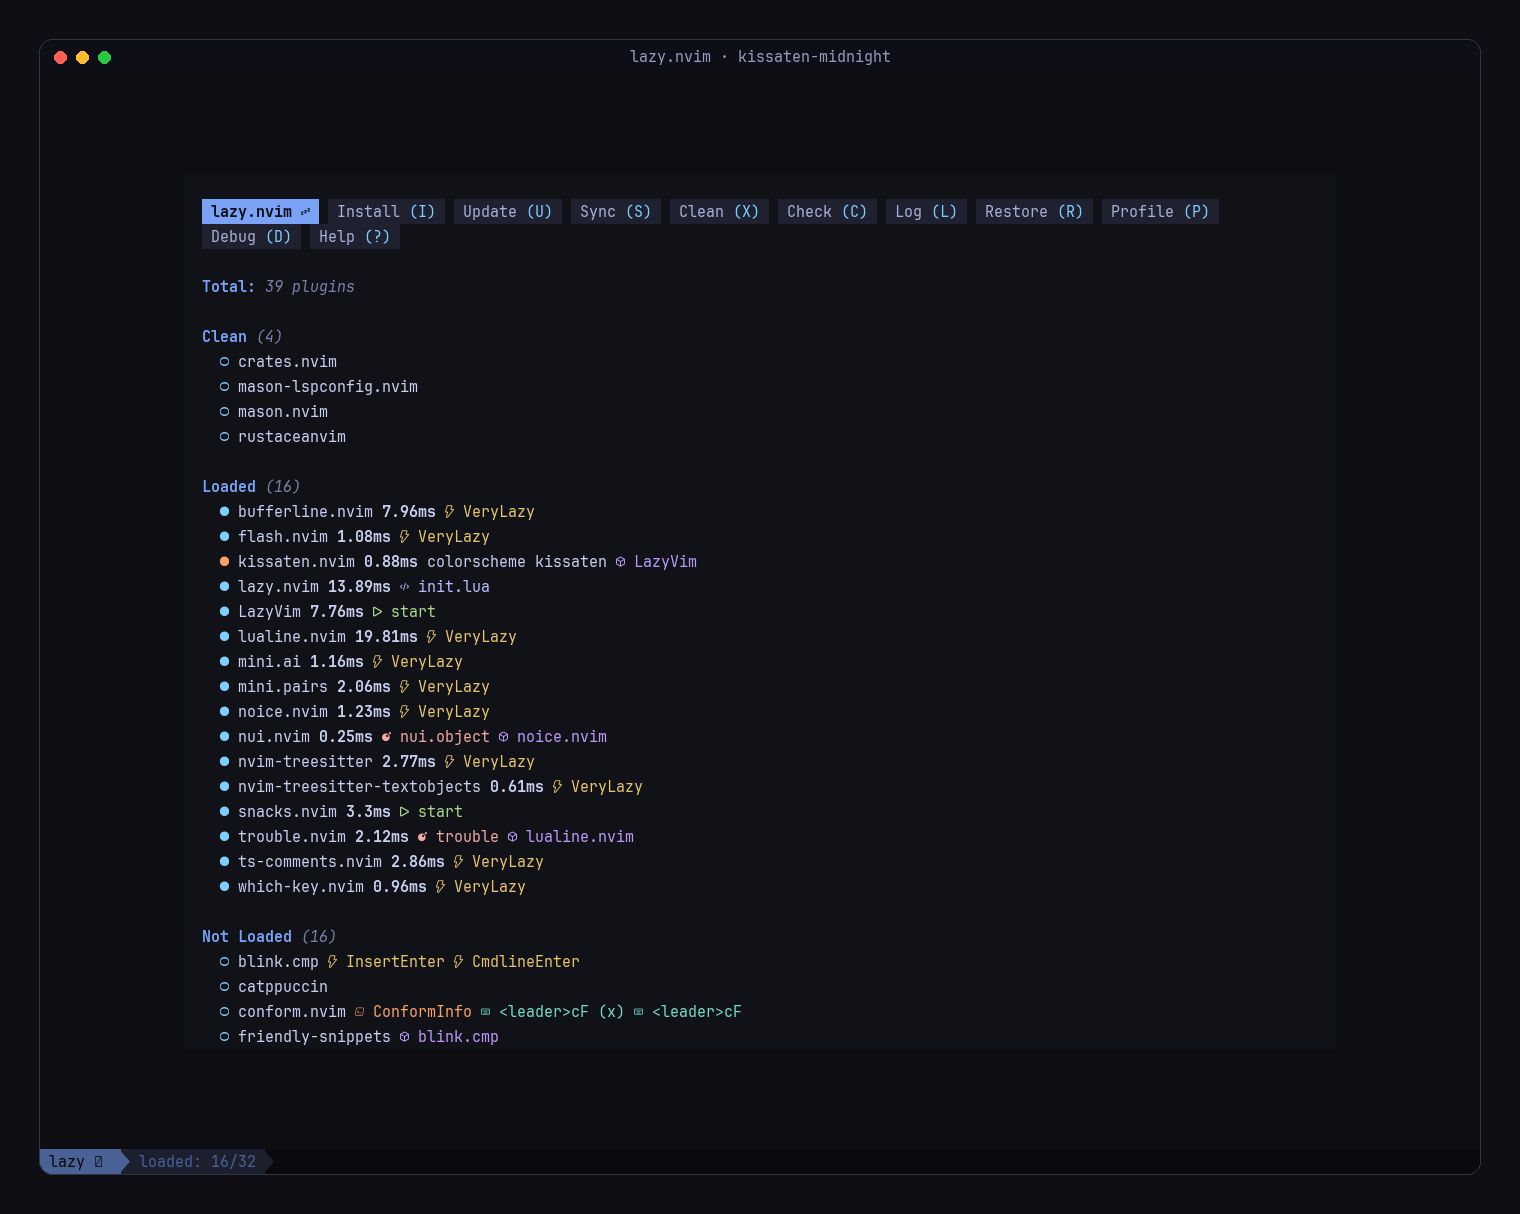
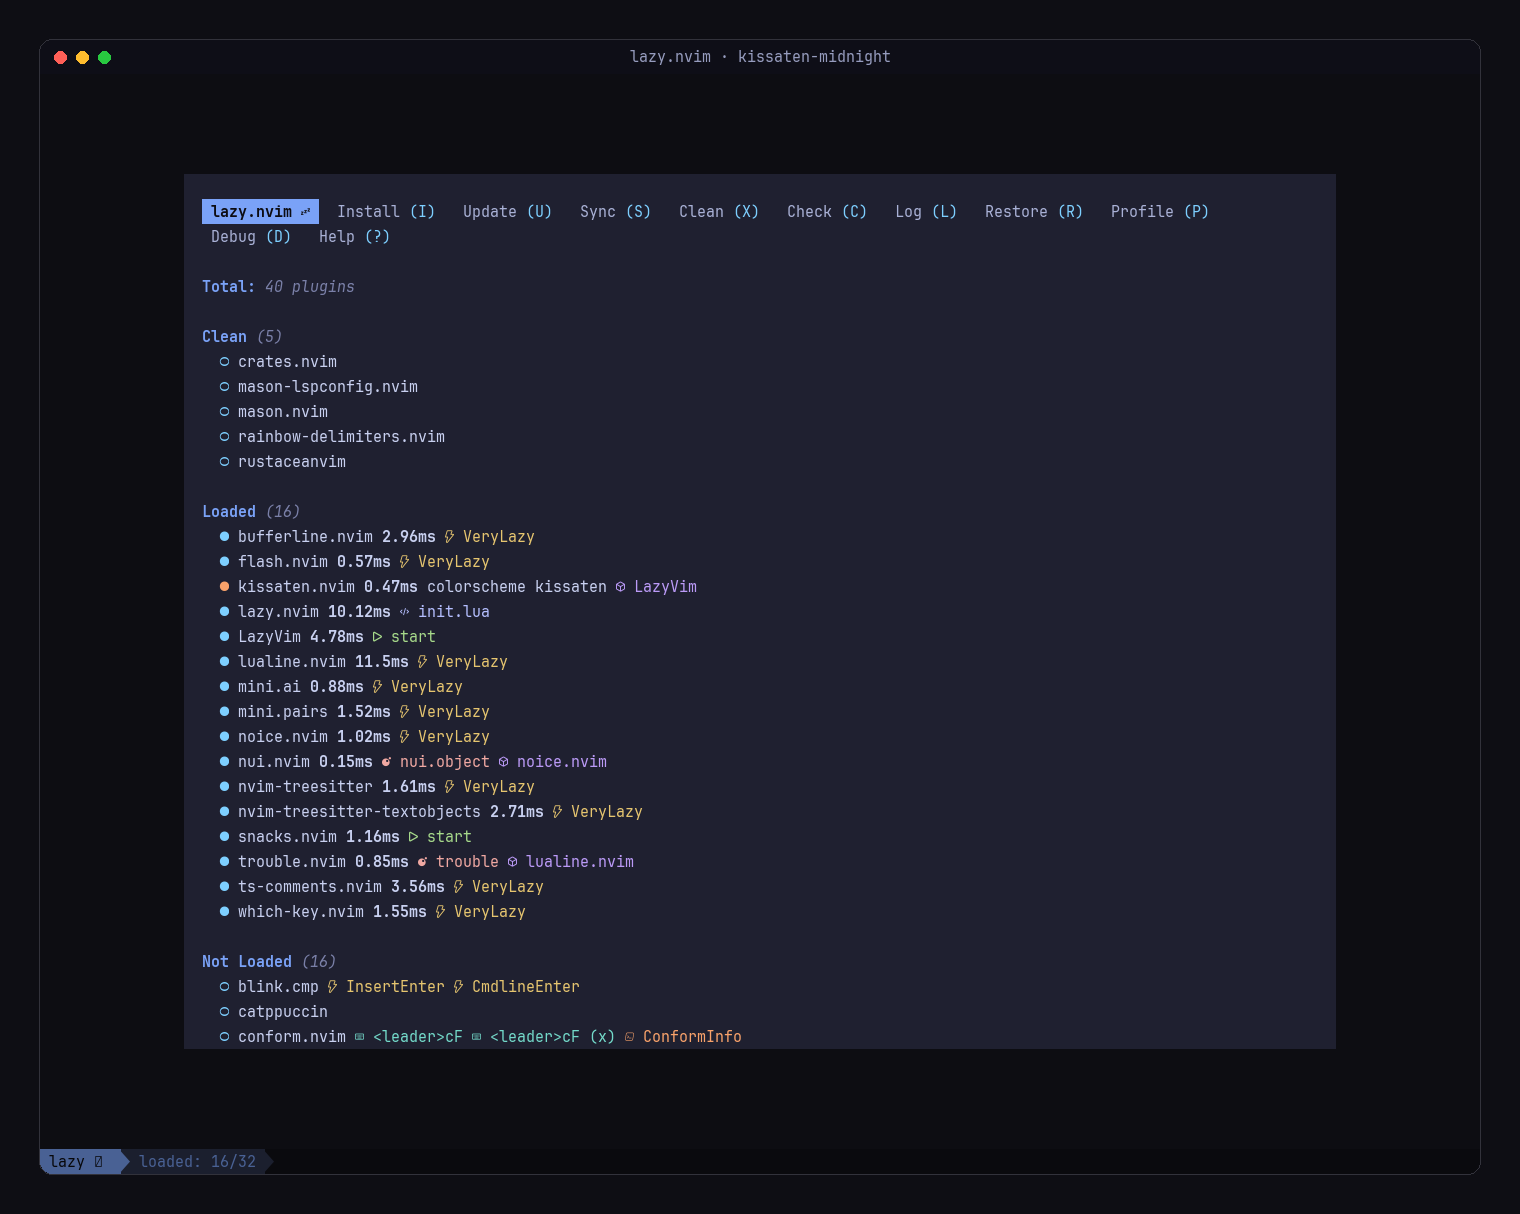
fix(borders): fix bright borders (AH-2026102413927)
Refs: AH-2026102413927

Changed region(s): [[0.1237, 0.3353, 0.4947, 0.8839]]

diff --git a/README.md b/README.md
@@ -214,7 +214,12 @@ return {
       no_bold = false,
       no_underline = false,
 
-      bright_borders = false, -- true: accent-colored float borders (not borderless pickers)
+      -- true: accent-colored popup borders.
+      -- NOTE: bright_borders needs this in lua/config/options.lua to work
+      -- effectively (Neovim 0.11+), otherwise completion/hover popups have no
+      -- border to color:
+      --   vim.o.winborder = "rounded"
+      bright_borders = false,
       lualine_bold = false, -- true: bold mode section in the statusline
 
       -- Recolor anything (see README "Overrides and recipes"):
@@ -304,7 +309,8 @@ require("kissaten").setup({
   no_bold = false,
   no_underline = false,
 
-  bright_borders = false,     -- accent-colored float borders
+  bright_borders = false,     -- accent-colored popup borders
+                              -- NOTE: needs vim.o.winborder = "rounded" to work effectively
   lualine_bold = false,       -- bold mode section in the lualine themes
 
   on_palette = function(palette, style) end,       -- 1. raw colors
@@ -331,6 +337,7 @@ Every option can be combined with every other. The test suite loads each pair on
 | `colorblind` + `on_colors` | `on_colors` runs last, so your role changes win. |
 | `accent` + statusline modes | Normal mode uses the accent. A mode that would share its color (insert is green, visual purple, replace red, command orange, terminal teal) switches to blue, so no two modes look alike. |
 | `accent` + `colorblind` | Allowed, but an accent that's also a status color can blur the two meanings, e.g. `accent = "orange"` with `"red-green"`, where deleted lines are orange. |
+| `bright_borders` + popups without borders | Nothing visible changes on windows that draw no border (LazyVim's completion menu and hover by default). Set `vim.o.winborder = "rounded"`; see [Borders around popups](#overrides-and-recipes). |
 | `borderless` + `bright_borders` | Pickers stay borderless. `bright_borders` still styles every other float (hover, completion docs, LSP info). |
 | `borderless` + `transparent` | Picker panels stay solid. Without lines, the shade is all that frames them. |
 | `contrast = "high"` + `subtle_comments` | They compose: comments fade starting from the lifted contrast (`0.5` gives about 3.8:1 instead of 3.1:1). |
@@ -536,6 +543,30 @@ opts = {
   end,
 }
 ```
+</details>
+
+<details>
+<summary><b>Borders around popups (completion, hover, signature help)</b></summary>
+
+> **Note:** `bright_borders` needs `vim.o.winborder = "rounded"` (Neovim 0.11+) to work effectively.
+
+`bright_borders` colors popup borders in the accent color, but a colorscheme can only color a border that a window actually draws. In LazyVim the completion menu, its docs and the LSP hover have no border by default. They follow Neovim's `winborder` option, which is empty. Turn borders on once and `bright_borders` takes effect everywhere:
+
+```lua
+-- LazyVim: lua/config/options.lua (Neovim 0.11+)
+vim.o.winborder = "rounded" -- or "single", "double", "bold", "solid"
+```
+
+```lua
+-- kissaten opts
+opts = { bright_borders = true }
+```
+
+![completion menu and docs with bright borders in kissaten-graveyard](assets/screenshots/popup-borders.png)
+
+blink.cmp and snacks use `winborder` when their own border is unset. To give only the completion menu a border, set it in blink instead: `opts = { completion = { menu = { border = "rounded" }, documentation = { window = { border = "rounded" } } } }` on `saghen/blink.cmp`.
+
+Even without borders, popups stand apart from the editor on every style. On `midnight` and `graveyard`, where there's no room for a darker shade, floats and the completion menu sit a step lighter than the background instead.
 </details>
 
 <details>

diff --git a/CHANGELOG.md b/CHANGELOG.md
@@ -20,6 +20,8 @@ First release.
 - `diagnostics.underline`, `diagnostics.virtual_text`, `inlay_hints`, and
   `styles.virtual_text`, `styles.inlay_hints`, `styles.conditionals`, `styles.loops`.
 - Text on colored badges meets 4.5:1 on every style (the light style uses its paper color).
+- `midnight` and `graveyard`: floats and the completion menu sit a step above the editor so
+  they no longer blend into it; `bright_borders` docs explain `winborder` for border-less popups.
 - `:checkhealth kissaten` lists the options that shape the colors.
 - Options combine safely: status colors and statusline modes keep their hue under
   `saturation`, a mode never shares the accent's color, and the test suite checks
